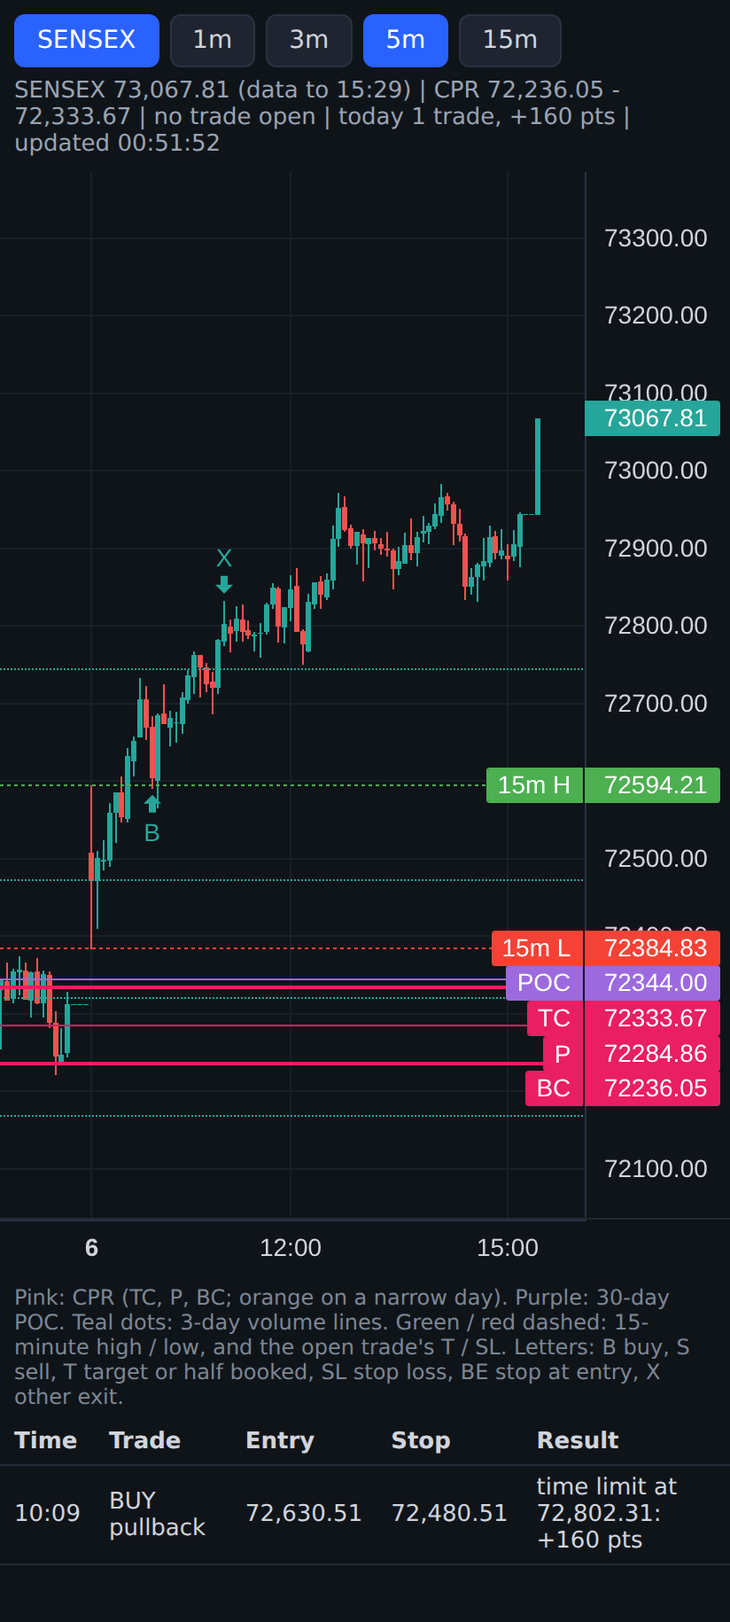
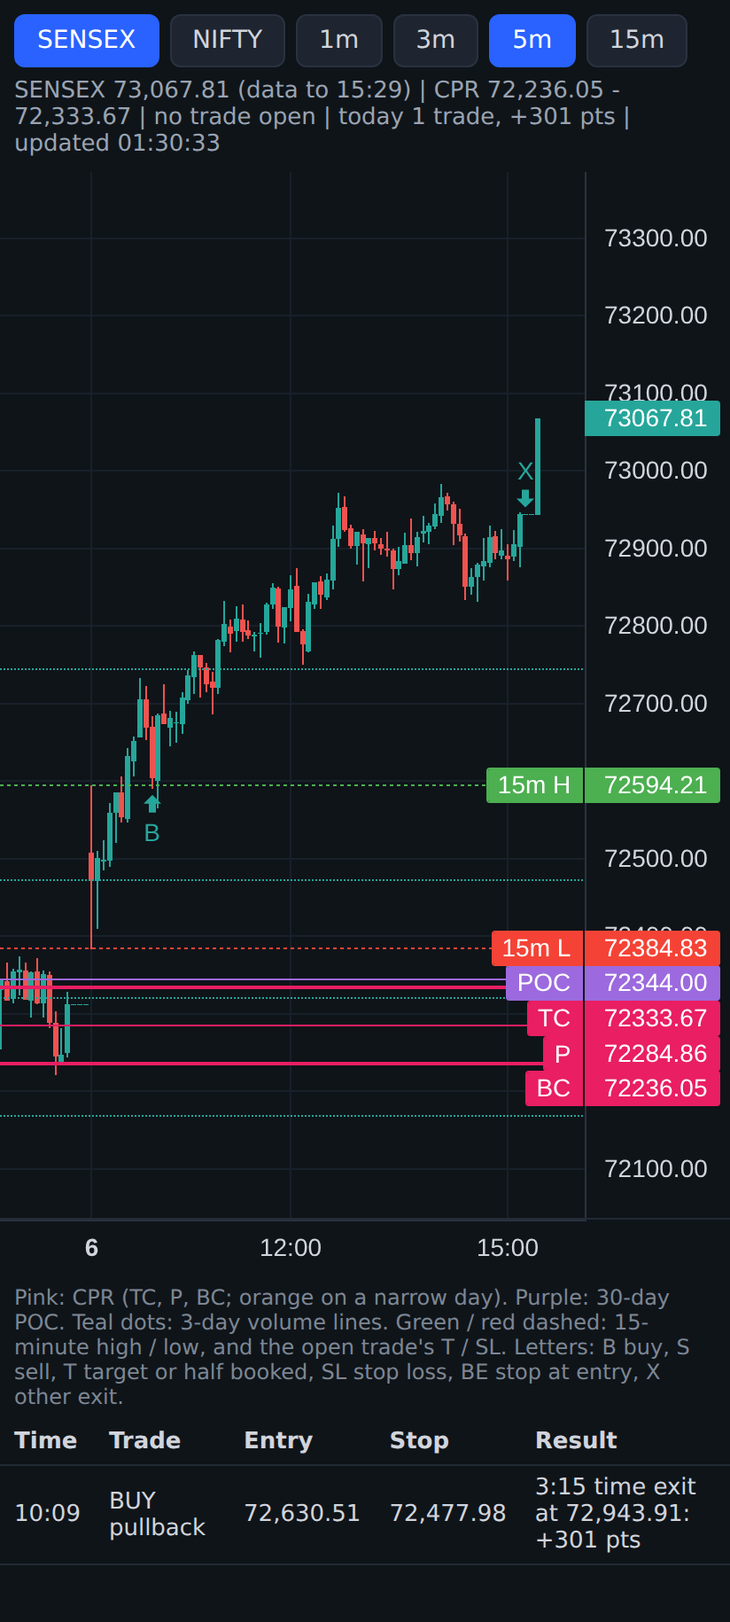
1:4 targets as the default rules in the indicator and the phone alerts
Stop at most 0.21% of price, target 4x the stop, held until the target, the stop
or 3:15; CPR Magnet and the pullback entry only, no volume-line trades. The
60-minute small-stop rules and the original rules stay selectable. The alerts
take exactly the y2026_rr.py trades on every 2026 session (Nifty 55 trades,
+1,344 points; Sensex 53 trades, +4,419), also minute by minute.

Claude-Session: https://claude.ai/code/session_01AGVU4tJ1NHm4Zt7sGSBpjS

diff --git a/trading-system/alerts/cprb_alerts.py b/trading-system/alerts/cprb_alerts.py
@@ -2,8 +2,10 @@
 """CPR Breakout alerts for Nifty and Sensex: live, free, no TradingView and no login needed.
 
 Follows the same rules as tradingview/cpr_breakout.pine (its default settings) on live 1-minute candles from
-Upstox's free public candle data. It tells you when to BUY (a call) or SELL (a put), where the stop is, when to
-book half and when to exit: on this screen, and on your phone through Telegram if you set that up (free).
+Upstox's free public candle data. It tells you when to BUY (a call) or SELL (a put), where the stop and the target
+are and when to exit: on this screen, and on your phone through Telegram if you set that up (free).
+Default rules ('rr'): 1:4 trades. Stop at most 0.21% of price (about 150 Sensex / 47 Nifty points), target 4x the
+stop, held until the target, the stop or 3:15. Only the CPR Magnet (9:16) and the pullback after the 9:30 breakout.
 
     python cprb_alerts.py                       run today: start it any time before 9:15, leave it running
     python cprb_alerts.py --replay 2026-10-09   replay a past day in a few seconds, to see what it does
@@ -30,8 +32,12 @@ import urllib.request
 # ---------------- settings ----------------
 INDICES = ['nifty', 'sensex']     # or ['nifty'] / ['sensex']
 LOTS = 5                          # lots per trade, only for the rupee estimates (option moves about half the index)
-RULES = 'small'                   # 'small': stops of at most STOP_CAP points, out within HOLD_MIN minutes, pullback entry
+RULES = 'rr'                      # 'rr': 1:4 trades. Stop at most STOP_PCT % of price, target RR_TARGET x the stop,
+                                  #       held until the target, the stop or 3:15. Pullback entry and CPR Magnet only
+                                  # 'small': stops of at most STOP_CAP points, out within HOLD_MIN minutes, pullback entry
                                   # 'classic': the original rules (wider stops, book half, trailing, out by 3:15)
+STOP_PCT = 0.21                   # 'rr' rules: the most a stop may be from entry, in % of price (Sensex ~150, Nifty ~47 points)
+RR_TARGET = 4.0                   # 'rr' rules: target = this x the stop
 STOP_CAP = {'nifty': 45, 'sensex': 150}   # 'small' rules: the most a stop may be from entry, in index points
 HOLD_MIN = 60                     # 'small' rules: out after this many minutes at the latest
 PULLBACK_R = 2.0                  # 'small' rules: the pullback trade's target = this x its stop
@@ -423,7 +429,7 @@ def vol_trades(cx, c1, upto, over, ladder):
     return out
 
 
-# ---------------- the 'small' rules: small stops, out within HOLD_MIN minutes, pullback entry ----------------
+# ---------------- the 'rr' and 'small' rules: capped stops, fixed targets, pullback entry ----------------
 def run_fixed(c1, side, e, start, stp, tgt, last_m, over, cost):
     """Stop, target, time limit (close of minute last_m), 3:15. No booking half, no trailing."""
     for m, o, h, l, c in c1:
@@ -444,24 +450,36 @@ def capped(side, e, stp0, cap):
     """The stop moved in to at most `cap` points from entry."""
     return stp0 if side * (e - stp0) <= cap else e - side * cap
 
-def small_plan_trades(cx, c1, upto, over):
-    """CPR Magnet at 9:16 (stop capped, target the CPR edge) and the pullback after the 9:30 breakout (a limit order
-    back at the broken 15-minute high / low once price has gone 0.1% beyond it, until 12:00; target PULLBACK_R x the
-    stop). Returns (trades, pending pullback or None)."""
+def risk_rules(cx, rules):
+    """The stop limit (points, for an entry price), the targets and the time limit under the 'small' / 'rr' rules."""
+    if rules == 'rr':
+        return dict(cap=lambda e: STOP_PCT / 100 * e, mag=RR_TARGET, pb=RR_TARGET, hold=None)
+    return dict(cap=lambda e: cx['cap'], mag=None, pb=PULLBACK_R, hold=HOLD_MIN)
+
+def pullback_plan(cx, c1, upto, over, rules):
+    """CPR Magnet at 9:16 (stop capped; target the CPR edge, or RR_TARGET x the stop) and the pullback after the 9:30
+    breakout (a limit order back at the broken 15-minute high / low once price has gone 0.1% beyond it, until 12:00;
+    target PULLBACK_R or RR_TARGET x the stop). Returns (trades, pending pullback or None)."""
     out, pend = [], None
     if not c1:
         return out, pend
-    lv, poc, cost, cap = cx['lv'], cx['poc'], cx['cost'], cx['cap']
+    R = risk_rules(cx, rules)
+    lv, poc, cost = cx['lv'], cx['poc'], cx['cost']
     if not cx['narrow']:
         o, e = c1[0][1], c1[0][4]
         side = -1 if o > lv['top'] else 1 if o < lv['bot'] else 0
         if side:
             edge = lv['top'] if side < 0 else lv['bot']
             if side * (edge - e) >= 0.002 * e and side * (e - poc) > 0:
-                stp = capped(side, e, e - side * 0.003 * e, cap)
-                last = 556 - 1 + HOLD_MIN
-                r = run_fixed(c1, side, e, 556, stp, edge, last, over, cost)
-                out.append(dict(src='MAGNET', small=True, side=side, m=556, known=556, e=e, stp0=stp, tgt=edge, last=last, **r))
+                stp = capped(side, e, e - side * 0.003 * e, R['cap'](e))
+                if R['mag']:
+                    tgt, tdesc = e + R['mag'] * (e - stp), f"{R['mag']:g}x the stop"
+                else:
+                    tgt, tdesc = edge, 'the CPR edge'
+                last = 556 - 1 + R['hold'] if R['hold'] else OUT
+                r = run_fixed(c1, side, e, 556, stp, tgt, last, over, cost)
+                out.append(dict(src='MAGNET', small=True, side=side, m=556, known=556, e=e, stp0=stp, tgt=tgt, tdesc=tdesc,
+                                last=last, **r))
     if upto < RANGE_END - 1:
         return out, pend
     first = [x for x in c1 if x[0] < RANGE_END]
@@ -484,6 +502,7 @@ def small_plan_trades(cx, c1, upto, over):
     tol = 0.0005 * lvl
     cx['breakout'] = dict(side=side, m=m, lvl=lvl, arm=lvl + side * 0.001 * lvl, px=lvl + side * tol)
     far = lvl
+    mult = R['pb']
     for mm, o, h, l, c in c1:
         if mm <= m:
             continue
@@ -495,8 +514,9 @@ def small_plan_trades(cx, c1, upto, over):
         px = lvl + side * tol
         s0 = orl if side > 0 else orh
         if pend is None:
-            risk = min(side * (px - s0), cap)
-            pend = dict(side=side, m=mm, px=px, lvl=lvl, stp=px - side * risk, tgt=px + side * PULLBACK_R * risk)
+            risk = min(side * (px - s0), R['cap'](px))
+            pend = dict(side=side, m=mm, px=px, lvl=lvl, stp=px - side * risk, tgt=px + side * mult * risk, hold=R['hold'],
+                        tdesc=f"{mult:g}x the stop")
         if not ((l <= lvl + tol) if side > 0 else (h >= lvl - tol)):
             continue
         e = min(o, px) if side > 0 else max(o, px)
@@ -504,12 +524,14 @@ def small_plan_trades(cx, c1, upto, over):
         if risk <= 0:
             break
         stp = s0
+        cap = R['cap'](e)
         if risk > cap:
             stp, risk = e - side * cap, cap
-        tgt = e + side * PULLBACK_R * risk
-        last = mm + HOLD_MIN
+        tgt = e + side * mult * risk
+        last = mm + R['hold'] if R['hold'] else OUT
         r = run_fixed(c1, side, e, mm + 1, stp, tgt, last, over, cost)
-        out.append(dict(src='PULLBACK', small=True, side=side, m=mm, known=mm + 1, e=e, stp0=stp, tgt=tgt, last=last, lvl=lvl, **r))
+        out.append(dict(src='PULLBACK', small=True, side=side, m=mm, known=mm + 1, e=e, stp0=stp, tgt=tgt,
+                        tdesc=f"{mult:g}x the stop", last=last, lvl=lvl, **r))
         break
     return out, pend
 
@@ -551,15 +573,15 @@ def small_vol_trades(cx, c1, upto, over):
 
 def day_trades(cx, c1, upto, over=False, ladder=False, rules=None):
     """Every signal of the day so far, and which were taken: one trade at a time, whichever came first."""
-    if (rules or RULES) == 'small':
+    rules = rules or RULES
+    if rules in ('small', 'rr'):
         cx['breakout'] = None
-        plan, pend = small_plan_trades(cx, c1, upto, over)
-        ts = plan + small_vol_trades(cx, c1, upto, over)
+        plan, pend = pullback_plan(cx, c1, upto, over, rules)
+        ts = plan + (small_vol_trades(cx, c1, upto, over) if rules == 'small' else [])
         cx['pending'] = pend
-        cx['rules_used'] = 'small'
+        cx['rules_used'] = rules
     else:
         cx['rules_used'] = 'classic'
-
         ts = plan_trades(cx, c1, upto, over) + vol_trades(cx, c1, upto, over, ladder)
     ts.sort(key=lambda t: (t['m'], t['src'] == 'VOLUME LINE'))
     free = 0
@@ -585,7 +607,7 @@ def option(cx, side, px):
     return f"buy the {k:.0f} {'CE (call)' if side > 0 else 'PE (put)'}"
 
 def plan_text(cx):
-    if RULES == 'small':
+    if RULES in ('small', 'rr'):
         return plan_text_small(cx)
     lv, poc, nm = cx['lv'], cx['poc'], cx['name']
     out = [f"{nm} plan for the session after {cx['prev']}",
@@ -613,7 +635,16 @@ def plan_text(cx):
 def plan_text_small(cx):
     lv, poc, nm, cap = cx['lv'], cx['poc'], cx['name'], cx['cap']
     sell, buy = lv['top'] / 0.998, lv['bot'] / 1.002
-    out = [f"{nm} plan for the session after {cx['prev']} (small stops: at most {cap:g} points, out within {HOLD_MIN} min)",
+    rr = RULES == 'rr'
+    if rr:
+        cap = round(STOP_PCT / 100 * cx['yc'])
+        rule = (f"stop at most {STOP_PCT:g}% of price (about {cap} points), target {RR_TARGET:g}x the stop, "
+                "held until the target, the stop or 3:15")
+        mult = RR_TARGET
+    else:
+        rule = f"stop at most {cap:g} points, out within {HOLD_MIN} minutes"
+        mult = PULLBACK_R
+    out = [f"{nm} plan for the session after {cx['prev']} ({'1:' + format(RR_TARGET, 'g') + ' trades' if rr else 'small stops'})",
            f"CPR {f2(lv['bot'])} - {f2(lv['top'])}, pivot {f2(lv['p'])}" + (" (NARROW)" if cx['narrow'] else ""),
            f"30-day volume POC {f2(poc)}: buys only above it, sells only below.",
            "Today's CPR vs yesterday's: " + ("higher -> no SELL breakout" if cx['rel'] > 0 else
@@ -623,12 +654,14 @@ def plan_text_small(cx):
         out.append(f"9:16 CPR MAGNET: SELL if the 9:15 candle opens above {f2(lv['top'])} and closes at or above {f2(sell)}"
                    + (f" and below the POC" if sell < poc else " (not possible today)") +
                    f"; BUY if it opens below {f2(lv['bot'])} and closes at or below {f2(buy)}"
-                   + (f" and above the POC" if buy > poc else " (not possible today)") + ". Target the CPR edge.")
+                   + (f" and above the POC" if buy > poc else " (not possible today)") +
+                   (f". Target {mult:g}x the stop." if rr else ". Target the CPR edge."))
     out.append("9:30-10:00 BREAKOUT, then PULLBACK: when price breaks the 9:15-9:30 high / low (filters above) and goes 0.1% "
-               f"beyond it, place a limit order back at that level (until 12:00). Target {PULLBACK_R:g}x the stop.")
-    out.append(f"3-day volume lines: {', '.join(f2(x) for x in cx['lines'])}. 9:30-2:30: a 5-minute close through a line "
-               "-> trade toward the next line (it must be at least 1.5x the stop away).")
-    out.append(f"Every trade: stop at most {cap:g} points, out within {HOLD_MIN} minutes, one trade at a time.")
+               f"beyond it, place a limit order back at that level (until 12:00). Target {mult:g}x the stop.")
+    if not rr:
+        out.append(f"3-day volume lines: {', '.join(f2(x) for x in cx['lines'])}. 9:30-2:30: a 5-minute close through a line "
+                   "-> trade toward the next line (it must be at least 1.5x the stop away).")
+    out.append(f"Every trade: {rule}, one trade at a time.")
     return '\n'.join(out)
 
 def range_note_small(cx, c1):
@@ -637,7 +670,8 @@ def range_note_small(cx, c1):
     gap = c1[0][1] - cx['yc']
     gap = 1 if gap > 0 else -1 if gap < 0 else 0
     if gap == 0 or gap == -cx['rel']:
-        return f"{cx['name']} 15-minute range {f2(orl)} - {f2(orh)}. No breakout trade today. Volume-line trades only."
+        return (f"{cx['name']} 15-minute range {f2(orl)} - {f2(orh)}. No breakout trade today." +
+                (" Volume-line trades only." if cx.get('rules_used') == 'small' else ""))
     lvl, word = (orh, 'BUY') if gap > 0 else (orl, 'SELL')
     return (f"{cx['name']} 15-minute range {f2(orl)} - {f2(orh)}. Watching for a break of {f2(lvl)} before 10:00"
             + ("" if gap * (lvl - cx['poc']) > 0 else f" (only counts beyond the POC {f2(cx['poc'])})") +
@@ -663,7 +697,7 @@ def messages(cx, ts, c1, upto, lots):
     """(id, minute known, text, important) for everything that has happened so far."""
     nm, out = cx['name'], []
     plan = [t for t in ts if t['src'] != 'VOLUME LINE']
-    if cx.get('rules_used') == 'small':
+    if cx.get('rules_used') in ('small', 'rr'):
         return messages_small(cx, ts, c1, upto, lots)
     if c1 and not cx['narrow'] and upto >= 556 and not any(t['src'] == 'MAGNET' for t in plan):
         out.append(('nomag', 556, f"{nm} 9:16: no CPR Magnet trade today; breakout plan from 9:30.", False))
@@ -722,8 +756,9 @@ def messages_small(cx, ts, c1, upto, lots):
         word = 'BUY' if pend['side'] > 0 else 'SELL'
         out.append(('pend', pend['m'] + 1, f"{nm} {hhmm(pend['m'])} breakout {'UP' if pend['side'] > 0 else 'DOWN'} confirmed. Place a {word} "
                     f"LIMIT order at {f2(pend['px'])} (back at the broken 15-minute {'high' if pend['side'] > 0 else 'low'}), valid until "
-                    f"12:00 -> {option(cx, pend['side'], pend['px'])}. Stop {f2(pend['stp'])}, target {f2(pend['tgt'])}, out within "
-                    f"{HOLD_MIN} minutes after the fill.", True))
+                    f"12:00 -> {option(cx, pend['side'], pend['px'])}. Stop {f2(pend['stp'])}, target {f2(pend['tgt'])} ({pend['tdesc']}), " +
+                    (f"out within {pend['hold']} minutes after the fill." if pend['hold'] else
+                     "hold until the target, the stop or 3:15."), True))
         if upto >= 720 and not any(t['src'] == 'PULLBACK' for t in ts):
             out.append(('nopb', 720, f"{nm} 12:00: the pullback didn't come. Cancel the {word} limit order at {f2(pend['px'])}.", True))
     for t in ts:
@@ -734,10 +769,10 @@ def messages_small(cx, ts, c1, upto, lots):
                         "another trade is still open" + (" (cancel the limit order)." if t['src'] == 'PULLBACK' else "."), t['src'] == 'PULLBACK'))
             continue
         if t['src'] == 'MAGNET':
-            how = f"Target the CPR edge {f2(t['tgt'])}."
+            how = f"Target {f2(t['tgt'])} ({t['tdesc']})."
         elif t['src'] == 'PULLBACK':
             how = (f"Limit order filled back at the broken 15-minute {'high' if t['side'] > 0 else 'low'}. "
-                   f"Target {f2(t['tgt'])} ({PULLBACK_R:g}x the stop).")
+                   f"Target {f2(t['tgt'])} ({t['tdesc']}).")
         else:
             how = f"5-minute close through the line {f2(t['x'])}. Target {f2(t['tgt'])} (next volume line)."
         out.append((tid + ('in',), t['known'], f"{nm} {hhmm(556 if t['src'] == 'MAGNET' else t['m'])} {t['src']} {sd} at {f2(t['e'])} -> "

diff --git a/trading-system/research/quant/alerts_check.py b/trading-system/research/quant/alerts_check.py
@@ -1,5 +1,5 @@
 """Check that alerts/cprb_alerts.py trades exactly like the 2026 backtest (y2026_combo.py / y2026_improve.py for the
-classic rules, y2026_short.py + y2026_reversal.py for the small-stop rules).
+classic rules, y2026_short.py + y2026_reversal.py for the small-stop rules, y2026_rr.py for the 1:4 rules).
 
     python alerts_check.py nifty        (or sensex)
 
@@ -10,6 +10,7 @@ classic rules, y2026_short.py + y2026_reversal.py for the small-stop rules).
 """
 import collections, sys
 import y2026 as Y, y2026_combo as K, y2026_improve as I, y2026_vol_lines as V, cpr_orb as C, y2026_short as S, y2026_reversal as RV
+import y2026_rr as RR
 sys.path.insert(0, '../../alerts')
 import cprb_alerts as A
 
@@ -50,14 +51,19 @@ ref_s = collections.defaultdict(list)
 for t in S.one_book([dict(t, src='BO') for d in Y.D26 for t in RV.pullback(d, PB)] + [t for d in Y.D26 for t in (S.magnet(d, P) or [])] +
                     [t for d in Y.D26 for t in S.vol(d, P)]):
     ref_s[t['d']].append((t['m'], round(t['pnl'], 6)))
-for label, a, b in (('classic', mine(False), ref), ('ladder', mine(True), ref_l), ('small', mine(False, 'small'), ref_s)):
+ref_r = collections.defaultdict(list)
+RP = dict(cap=A.STOP_PCT / 100, mode='tighten', target=f"{A.RR_TARGET:g}R", hold=0)
+for t in S.one_book([t for d in Y.D26 for f in ('PB', 'MAG') for t in RR.FAMS[f](d, dict(RP, fam=f))]):
+    ref_r[t['d']].append((t['m'], round(t['pnl'], 6)))
+for label, a, b in (('classic', mine(False), ref), ('ladder', mine(True), ref_l), ('small', mine(False, 'small'), ref_s),
+                    ('rr', mine(False, 'rr'), ref_r)):
     diff = [d for d in Y.D26 if sorted(a[d]) != sorted(b[d])]
     n = sum(len(v) for v in a.values()); net = sum(p for v in a.values() for _, p in v)
     print(f"  {label:8} alerts: {n} trades, net {net:+,.0f} | backtest: {sum(len(v) for v in b.values())} trades, "
           f"net {sum(p for v in b.values() for _, p in v):+,.0f} | days that differ: {len(diff)} {diff[:5]}")
     for d in diff[:3]: print(f"     {d} alerts {a[d]} backtest {b[d]}")
 
-for rules in ('classic', 'small'):
+for rules in ('classic', 'small', 'rr'):
     changed = 0
     for d in Y.D26:
         cx, said = CX[d], {}

diff --git a/trading-system/alerts/README.md b/trading-system/alerts/README.md
@@ -7,21 +7,27 @@ month. Brokers' charts (Groww, Dhan, Zerodha) show live prices for free but can'
 default settings) on live 1-minute candles from Upstox's free public candle data. It doesn't need an Upstox account
 or a login. It tells you:
 
-- **before 9:15:** the plan for the day: CPR, narrow or not, the 30-day POC, the 3-day volume lines, the CPR Magnet
-  trigger prices;
+- **before 9:15:** the plan for the day: CPR, narrow or not, the 30-day POC, the CPR Magnet trigger prices;
 - **9:16:** CPR Magnet BUY / SELL, or "no magnet today";
-- **9:30:** the 15-minute range and the one breakout trade that is still allowed: "SELL when price touches X". Set
-  a price alert in Groww at X, so you aren't late;
-- **every trade:** BUY = buy the ATM call, SELL = buy the ATM put, with the stop, when to book half, when to move
-  the stop, and the exit with points and rupees.
+- **9:30:** the 15-minute range and the one breakout that is still allowed;
+- **the breakout:** "broke the 15-minute high X, don't chase it"; then "place a BUY LIMIT order at Y" (the pullback
+  to the broken level, valid until 12:00); at 12:00 "cancel it" if it didn't fill;
+- **every trade:** BUY = buy the ATM call, SELL = buy the ATM put, with the stop, the target, and the exit with
+  points and rupees.
 
 Alerts appear on the screen (with a beep) and, if you set it up, on your phone through Telegram (free).
 
-**Rules** (top of the file): `RULES = 'small'` (default) = stops of at most 150 Sensex / 45 Nifty points
-(`STOP_CAP`), out within 60 minutes (`HOLD_MIN`), all at the target, no trailing; the breakout is traded on the
-pullback: at the break it tells you where the limit order will go, once price is 0.1% beyond it says "place a BUY /
-SELL LIMIT at X", and at 12:00 it tells you to cancel it if it didn't fill. `RULES = 'classic'` = the original
-rules. The chart shows a waiting limit order as a blue "LIMIT" line.
+**Rules** (top of the file):
+
+- `RULES = 'rr'` (default), **1:4 trades**: every stop at most 0.21% of price (`STOP_PCT`; about 150 Sensex / 47
+  Nifty points), target 4x the stop (`RR_TARGET`; about 600 Sensex / 190 Nifty points), held until the target, the
+  stop or 3:15. Only two setups: the CPR Magnet at 9:16 and the breakout traded on the pullback. No volume-line
+  trades. About 6 trades a month per index; fewer than half win, but a win is 4x a loss.
+- `RULES = 'small'`: stops of at most 150 Sensex / 45 Nifty points (`STOP_CAP`), out within 60 minutes
+  (`HOLD_MIN`), target 2x the stop for the pullback, plus volume-line trades. About 17 trades a month per index.
+- `RULES = 'classic'`: the original rules (wider stops, book half, trailing).
+
+The chart shows a waiting limit order as a blue "LIMIT" line.
 
 ## The live chart (free)
 
@@ -34,7 +40,7 @@ refreshes every 5 seconds; the program fetches new prices every 15 seconds. On a
 The chart library (TradingView's free open-source Lightweight Charts) is downloaded once and kept next to the
 program. `CHART = False` at the top switches the chart off.
 
-![The live chart on a phone, replaying 6 October 2026 (Sensex, small-stop rules)](chart-phone.png)
+![The live chart on a phone, replaying 6 October 2026 (Sensex, 1:4 rules: pullback BUY, closed at 3:15)](chart-phone.png)
 
 ## Set up once
 
@@ -99,8 +105,9 @@ On a phone, put the date in `REPLAY_DAY = '2026-10-08'` at the top and press Run
 ## Checked
 
 `research/quant/alerts_check.py` runs it on every 2026 session, minute by minute as it runs live. It took exactly the
-backtest's trades: small-stop rules Nifty 150 trades, net +842 points, Sensex 170 trades, net +4,708; original rules
-Nifty 101 trades, net +2,274, Sensex 114 trades, net +8,102 (with the ladder +2,193 / +8,819). Nothing it had already said changed later in the day. The CPR uses the exchange's official daily close
+backtest's trades: 1:4 rules Nifty 55 trades, net +1,344 points, Sensex 53 trades, net +4,419; small-stop rules
+Nifty 150 trades, net +842, Sensex 170 trades, net +4,708; original rules Nifty 101 trades, net +2,274, Sensex 114
+trades, net +8,102 (with the ladder +2,193 / +8,819). Nothing it had already said changed later in the day. The CPR uses the exchange's official daily close
 (downloaded each morning), like TradingView; the official close often differs from the last 1-minute candle.
 
 ## Limits
@@ -112,3 +119,5 @@ Nifty 101 trades, net +2,274, Sensex 114 trades, net +8,102 (with the ladder +2,
   the script will say "data error".
 - It only sends alerts. You place the orders yourself in Groww.
 - The rules were adjusted on 2026 itself, so live results will very likely be lower than the backtest.
+- 1:4 trades are held for hours. An at-the-money option loses value every hour it is held (time decay), most on
+  expiry day, so the rupee estimates (half the index move) are on the high side for these trades.

diff --git a/trading-system/tradingview/README.md b/trading-system/tradingview/README.md
@@ -4,17 +4,25 @@
 
 File: [`cpr_breakout.pine`](cpr_breakout.pine). An indicator; reads 1-minute candles underneath for exits.
 
-**Default rules now: small stops, out within 60 minutes** (Settings > Trade style > Rules; "Original" gives the
-rules described further down). Every stop at most 150 Sensex / 45 Nifty points, every trade out after 60 minutes
-at the latest, all at the target, no booking half, no trailing, one trade at a time:
-- **CPR Magnet** at 9:16 (same conditions as below), target the CPR edge.
+**Default rules now: 1:4 targets, held until 3:15** (Settings > Trade style > Rules). Every stop at most 0.21% of
+price (about 150 Sensex / 47 Nifty points), the target 4x the stop (about 600 / 190 points), the whole position held
+until the target, the stop or 3:15. No booking half, no trailing, one trade at a time, and only two setups:
+- **CPR Magnet** at 9:16 (same conditions as below): stop 0.21%, target 4x the stop.
 - **Breakout on the pullback**: when price touches the 15-minute high / low before 10:00 (same filters) and goes 0.1%
   beyond it, a limit order goes back at the broken level (blue dashed line, until 12:00). Stop at the other side of
-  the range or 150 / 45 points, target 2x the stop.
-- **3-day volume lines**: stop at the previous line or 150 / 45 points, target the next line.
-- 2026: Nifty 150 trades, 53% won, net +842, worst trade −49; Sensex 170 trades, 54% won, net +4,708, worst trade
-  −162 (`research/quant/y2026_short_combo.py`). The original rules made more (Nifty +2,274, Sensex +8,102) with
-  bigger single losses (−105 / −471).
+  the range or 0.21%, whichever is closer; target 4x the stop.
+- No volume-line trades with these rules (the volume lines are still drawn).
+- 2026 (1 Jan - 9 Oct), after costs: Nifty 55 trades (about 6 a month), 44% won, average win +122 / average loss
+  −51, net +1,344 (Jan-Jun +866, Jul-Oct +478), worst fall −428; Sensex 53 trades, 43% won, average win +395 /
+  average loss −156, net +4,419 (Jan-Jun +3,623, Jul-Oct +796), worst fall −1,048. Only about 1 trade in 6 reaches
+  the full 4x target; most winners are closed at 3:15 with a smaller gain. Trades last about 3 hours on average.
+  On Nifty the Magnet trades about broke even; the pullback trades made the money (`research/quant/y2026_rr.py`).
+
+**Small stops, out within 60 minutes** (the second choice): every stop at most 150 Sensex / 45 Nifty points, out
+after 60 minutes at the latest; Magnet target the CPR edge, pullback target 2x the stop, plus 3-day volume-line
+trades (target the next line). 2026: Nifty 150 trades, 53% won, net +842; Sensex 170 trades, 54% won, net +4,708
+(`research/quant/y2026_short_combo.py`). **Original** (the third choice): the rules below; Nifty +2,274, Sensex
++8,102, with bigger single losses (−105 / −471).
 
 The rest of this section describes the original rules.
 

diff --git a/trading-system/research/WHAT_THE_TESTS_SHOW.md b/trading-system/research/WHAT_THE_TESTS_SHOW.md
@@ -841,9 +841,17 @@ key levels, 5-minute closes through key levels (`y2026_rr.py`, 378 versions per 
 | Pullback + Magnet, target 4x, to 3:15 | 55 trades, 44% won, net +1,344, worst fall −428 | 53 trades, 43% won, net +4,419, worst fall −1,048 |
 | Pullback + Magnet + volume lines, target 4x, to 3:15 | 82 trades, 35% won, net +734 | 89 trades, 40% won, avg win +410 / loss −146, net +6,997, worst fall −1,228 |
 | Pullback + Magnet + volume lines, target 3x, out within 60 min | 87 trades, 48% won, net −144 | 97 trades, 58% won, net +3,604 |
-| For comparison: small stops, out within 60 min (current default) | 150 trades, 53% won, net +842 | 170 trades, 54% won, net +4,708 |
+| For comparison: small stops, out within 60 min | 150 trades, 53% won, net +842 | 170 trades, 54% won, net +4,708 |
 
 All versions shown were positive in both halves of 2026 except where the net is negative.
+
+**Now the default** in the indicator ("1:4 targets, held until 3:15") and the phone alerts (`RULES = 'rr'`):
+pullback + Magnet, stop at most 0.21%, target 4x, to 3:15, no volume lines. Nifty: 24 of 55 won, average win +122 /
+average loss −51, Jan-Jun +866, Jul-Oct +478. Sensex: 23 of 53 won, average win +395 / average loss −156, Jan-Jun
++3,623, Jul-Oct +796. Only 9 trades per index reached the full 4x target; 18 were closed at 3:15 and most of the
+wins come from those. On Nifty the Magnet trades about broke even (22 trades, −18); the pullback made the money.
+The alerts took exactly these trades (`alerts_check.py`). These trades are held about 3 hours on average, so an
+option's time decay matters more than with the 60-minute rules.
 
 ## How to re-check all of this
 

diff --git a/trading-system/research/quant/README.md b/trading-system/research/quant/README.md
@@ -55,7 +55,7 @@ Costs: 4 Nifty points or 12 Sensex points per trade. `pip install pandas scikit-
 | `y2026_combo.py` | 2026 only: the CPR daily plan plus 3-day volume-line trades, side by side or one trade at a time, with rupees at 2 lots (e.g. `nifty`) |
 | `y2026_trades.py` | 2026 only: every trade of the indicator one by one: calls vs puts, how far winners kept going after we booked, whether losers were in profit first |
 | `y2026_improve.py` | 2026 only: exit changes from that review (magnet rest to the far edge / trail / hold, breakout trail 1.5R / 2R / hold, volume-line breakeven stop and line-to-line ladder), alone and in all 64 combinations |
-| `alerts_check.py` | Checks that `alerts/cprb_alerts.py` (live alerts) takes exactly the backtest's 2026 trades, also minute by minute as it runs live |
+| `alerts_check.py` | Checks that `alerts/cprb_alerts.py` (live alerts) takes exactly the backtest's 2026 trades (1:4, small-stop, original and ladder rules), also minute by minute as it runs live |
 | `y2026_pivots.py` | 2026 only: why the indicator skipped big days (its filters switched off one by one) and 864 versions of pivot-level trades (S3-R3, BC / P / TC, with or without the volume lines), alone and added to the indicator |
 | `fetch_daily.py` | Downloads the official daily high / low / close (November 2025 on) that `cpr_backtest.py` uses for the CPR and pivots; `CPR_CLOSE=last1m` uses the last 1-minute candle instead |
 | `fetch_pcr.py` | Daily put-call ratio and the strikes with the most call / put open interest, from the NSE and BSE F&O bhavcopy files (Nifty and Sensex) |
